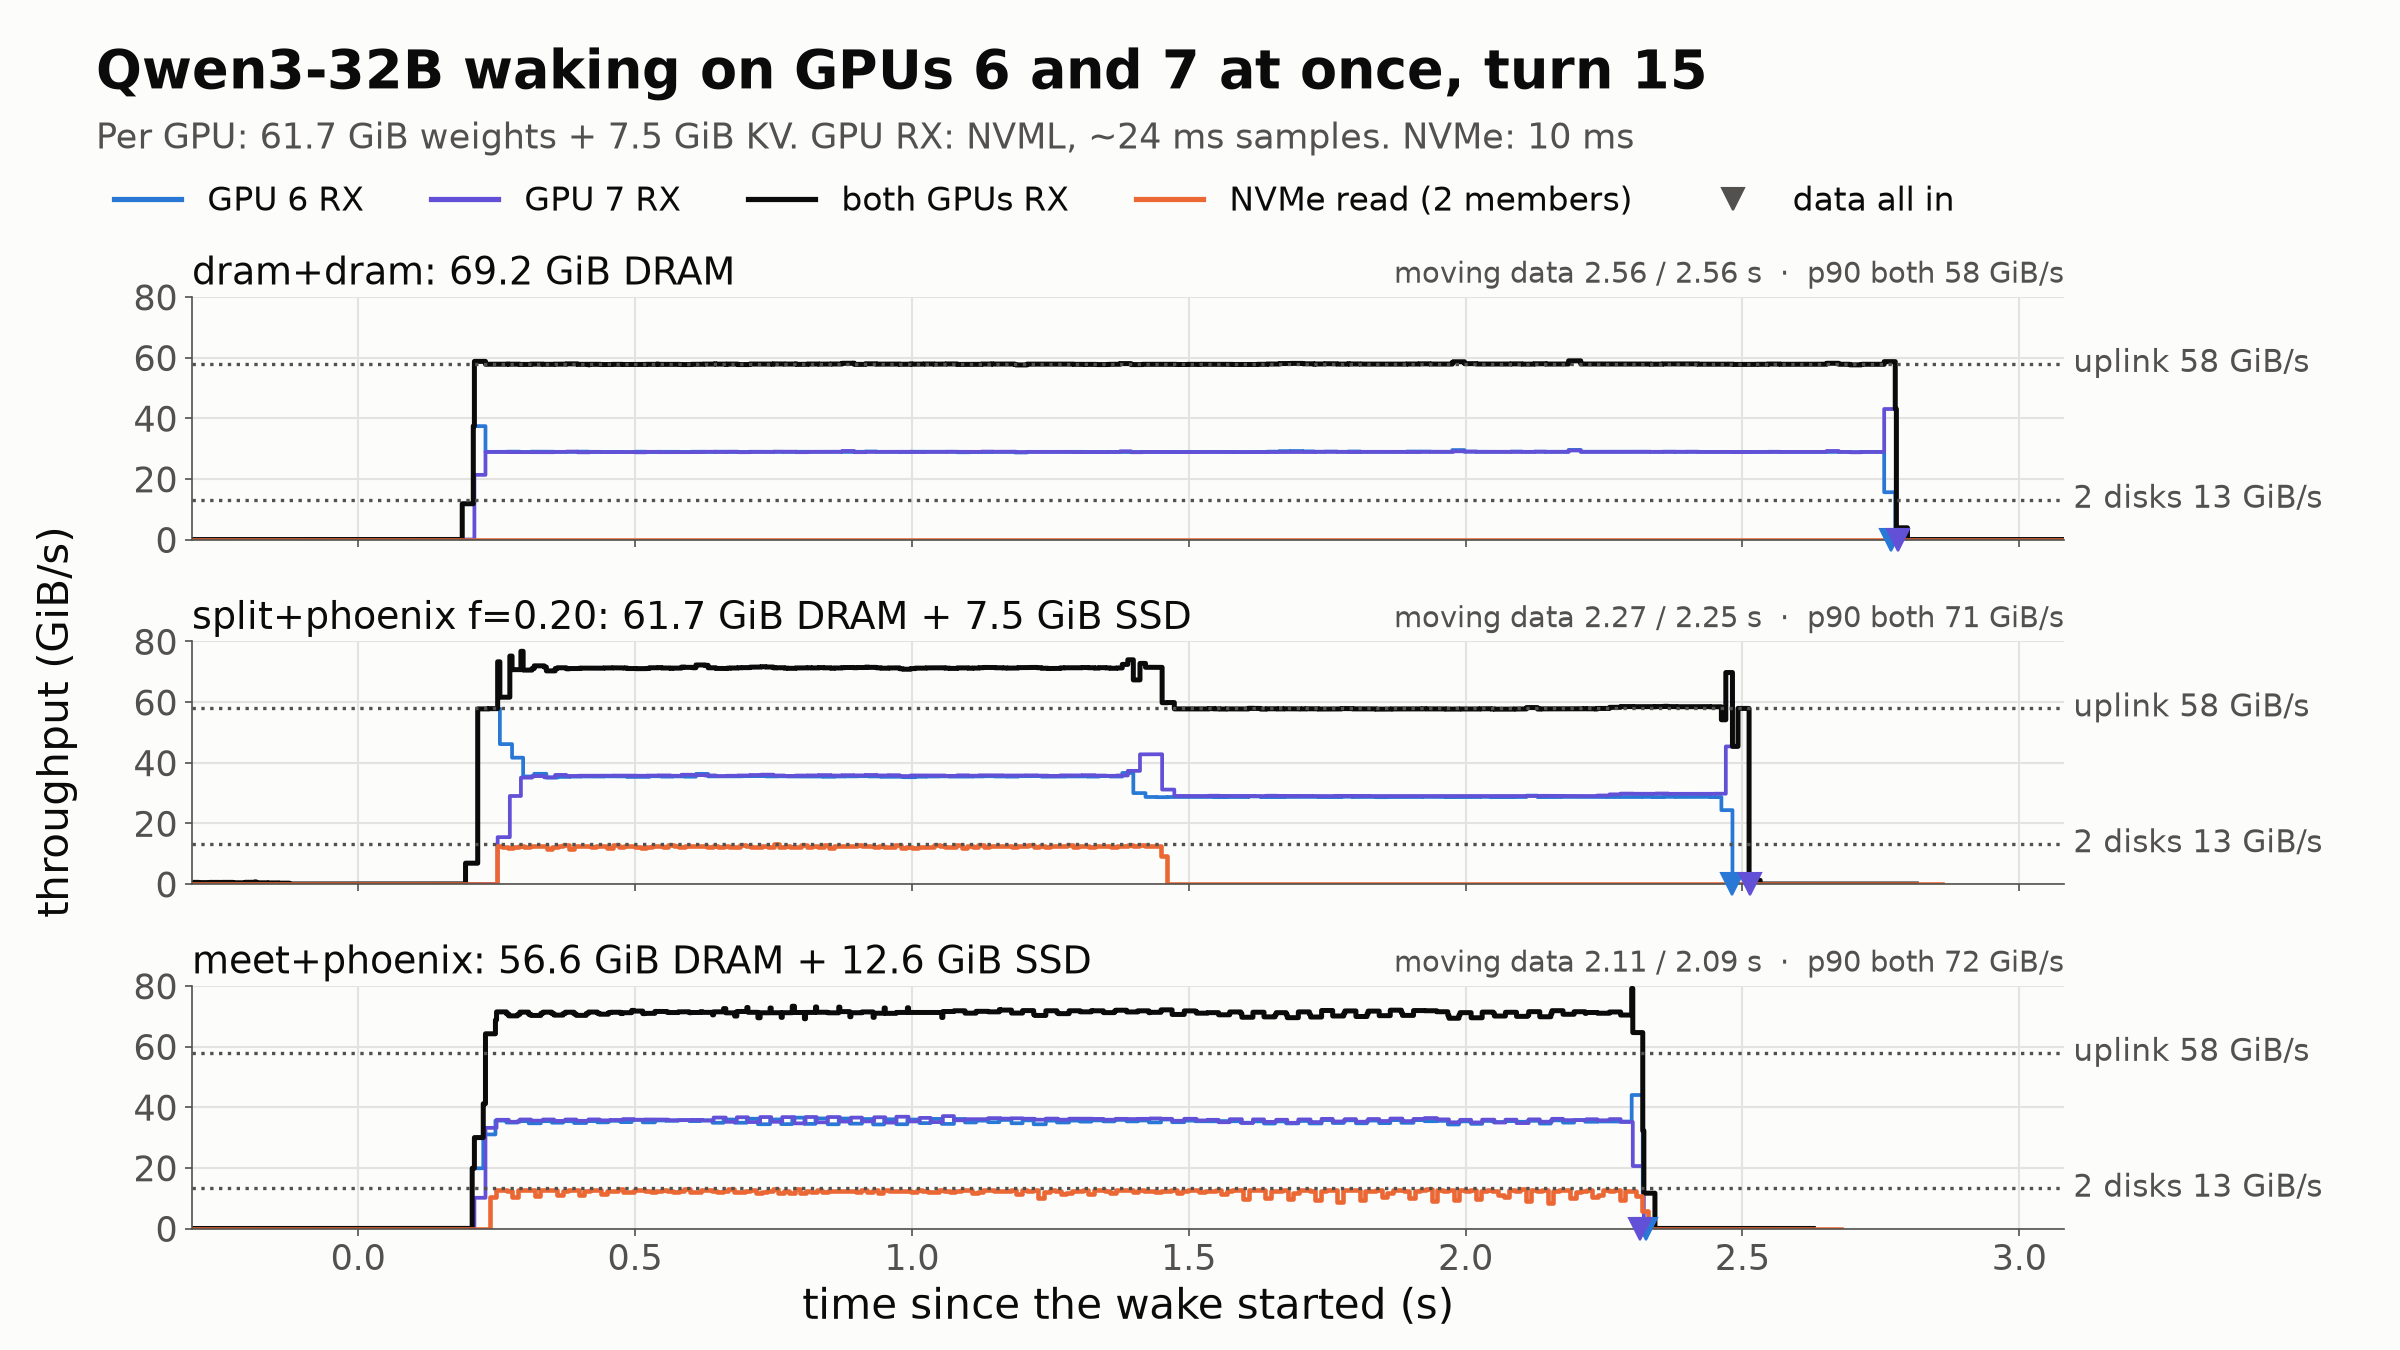
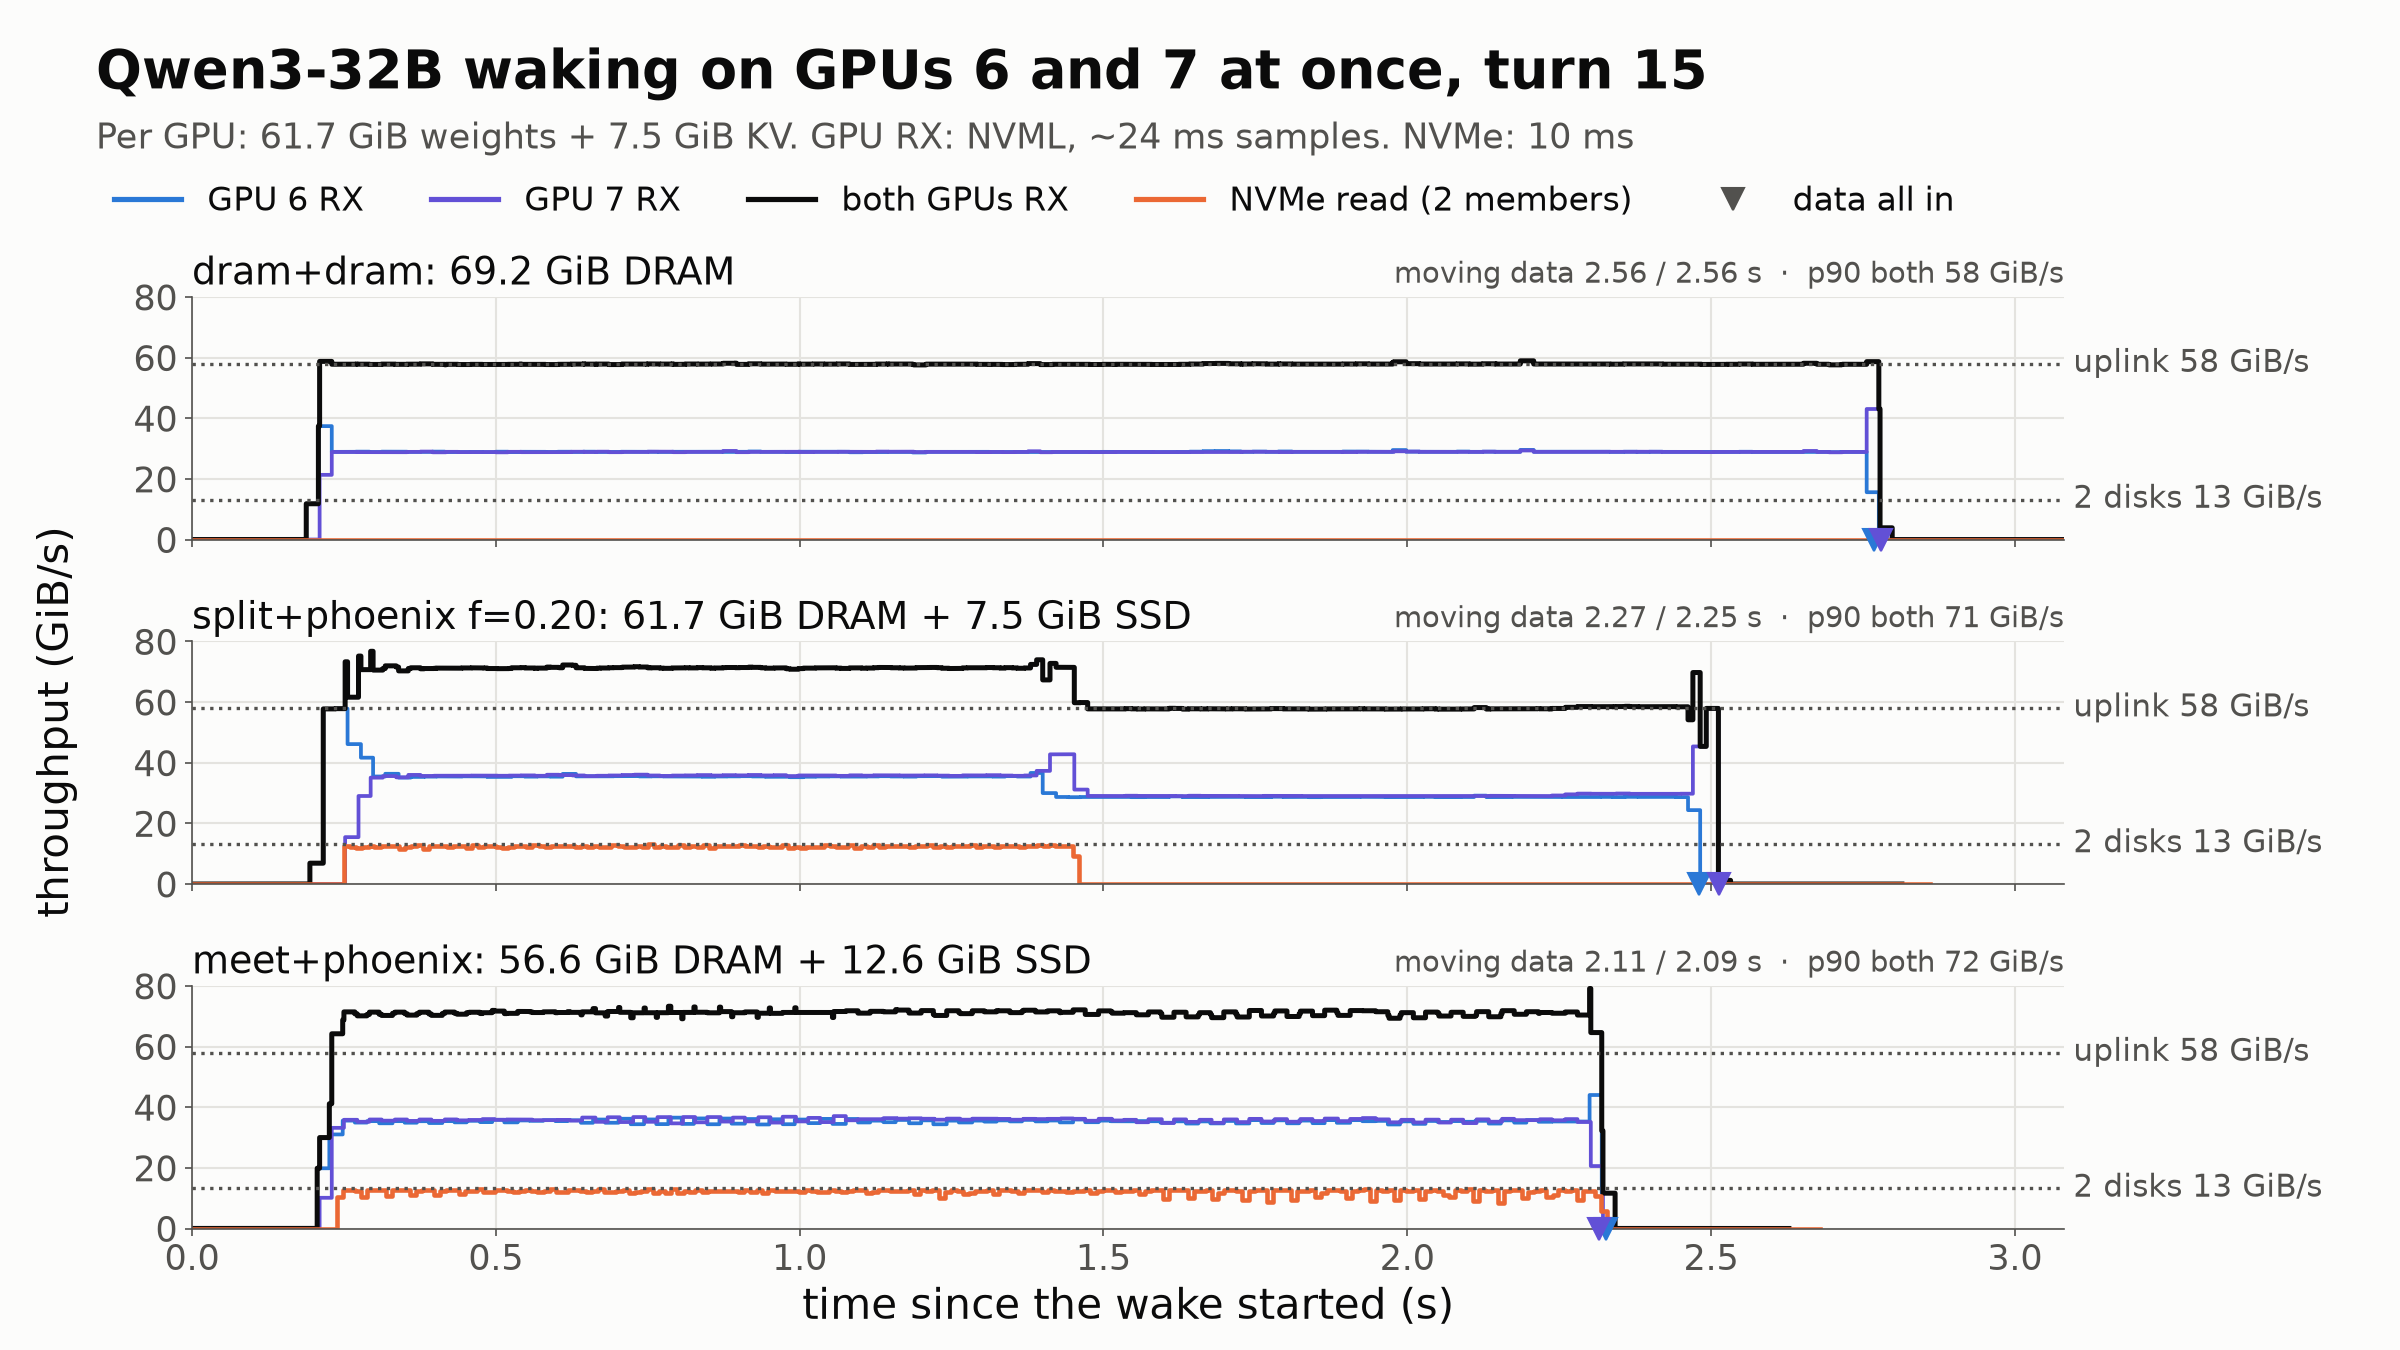
Wake bandwidth figures: start the time axis at 0
Drop the 0.3 s shown before the wake starts; redraw all ten figures.

diff --git a/analysis/plot_dual_wake_bw.py b/analysis/plot_dual_wake_bw.py
@@ -148,7 +148,7 @@ def main():
                 ha="right", va="bottom", fontsize=14, color=INK2)
         ax.set_ylim(0, 80)
         ax.set_yticks([0, 20, 40, 60, 80])
-    axes[-1].set_xlim(-PAD, max(max(r["ends"].values()) for r in runs) + PAD)
+    axes[-1].set_xlim(0, max(max(r["ends"].values()) for r in runs) + PAD)
     axes[-1].set_xlabel("time since the wake started (s)")
     fig.text(0.015, 0.465, "throughput (GiB/s)", rotation=90, va="center", fontsize=20)
     rec0 = runs[0]["rec"]
